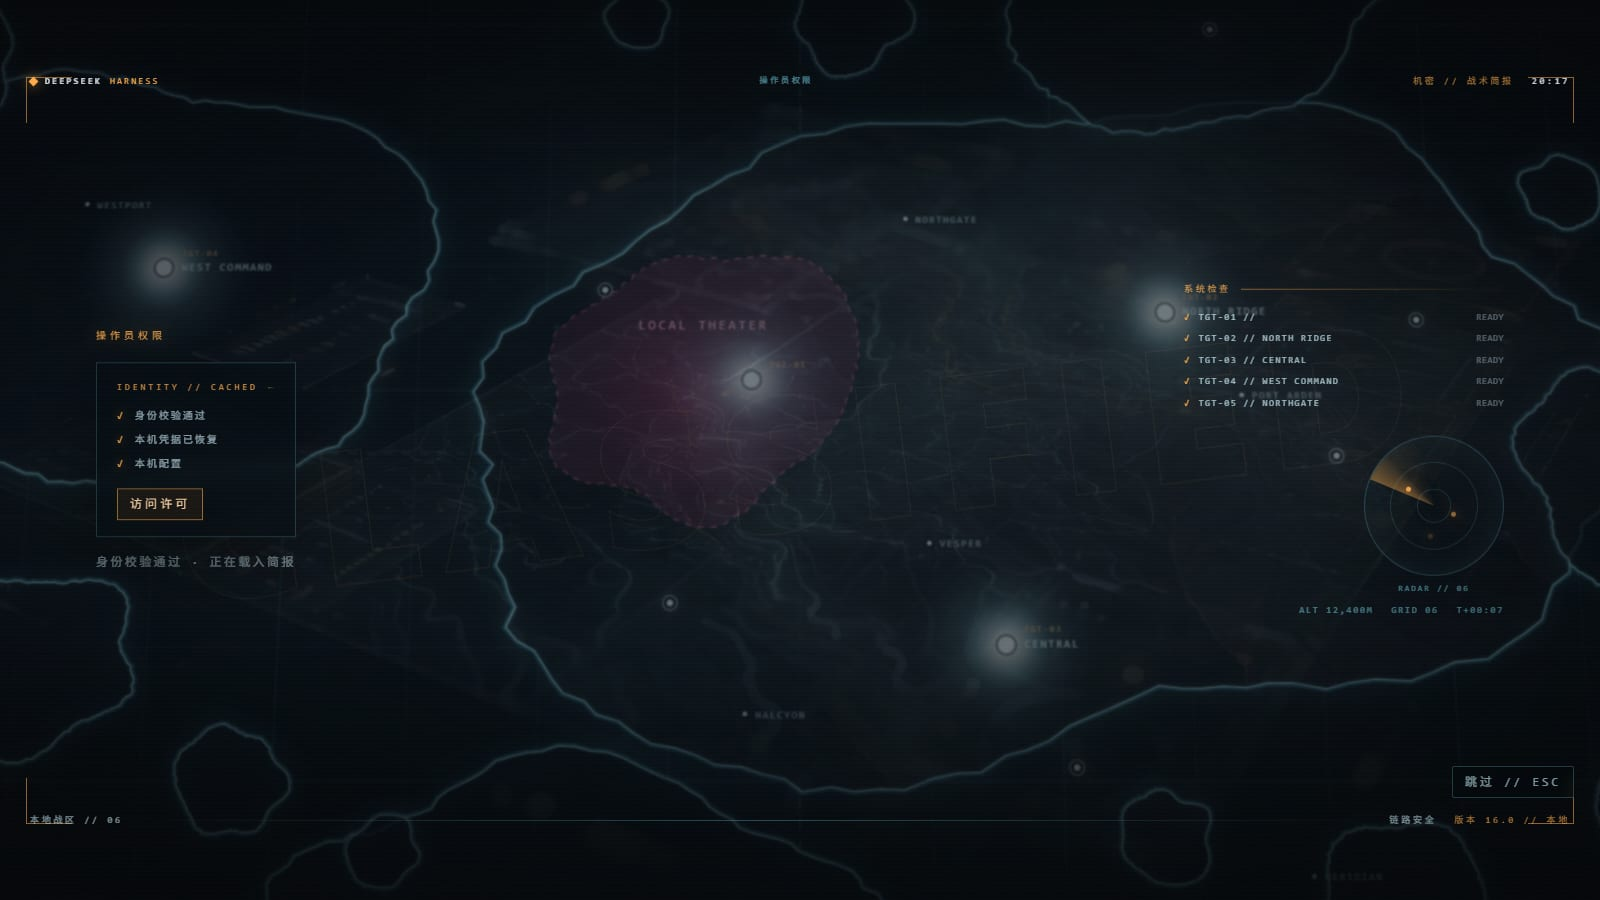
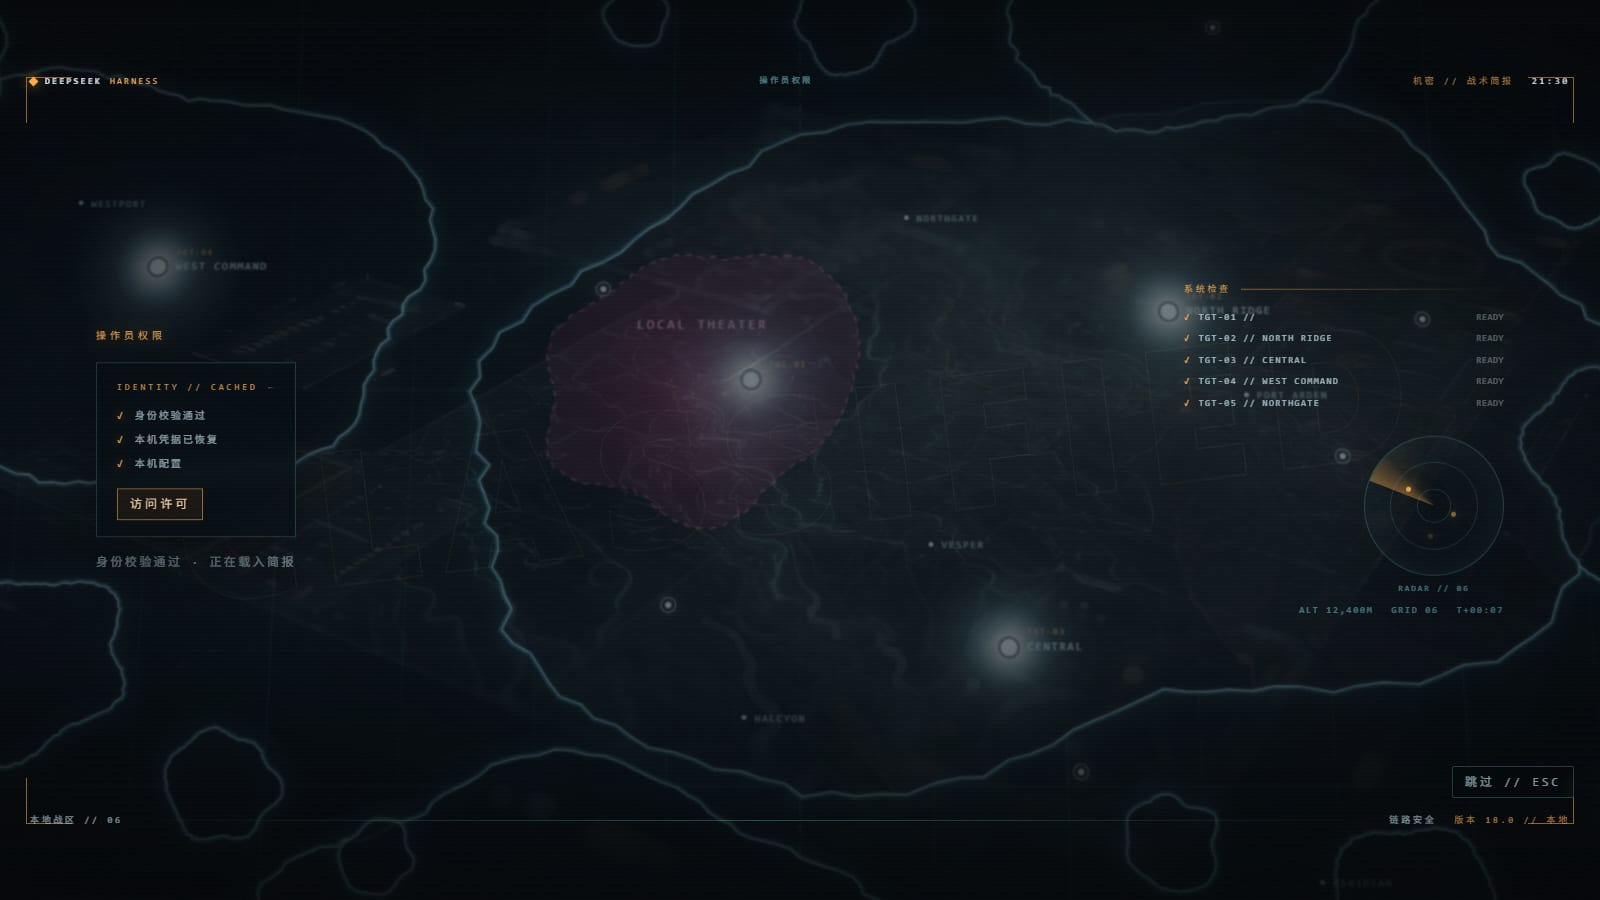
fix: anchor the theater halo in place and settle the map first (v0.18.0)
- removed the translateY rise from the seed group; the halo now expands purely in place around its map coordinate
- shortened the map camera settle to .9s and delayed the point to .95s so the plane is static before the burst begins
- verified with frame-by-frame captures: the bright core centroid stays at ~y=380.3 across the burst and fade frames instead of drifting upward
- README/locale/previews updated; tests 8/8, real-Edge reload check clean

diff --git a/client.js b/client.js
@@ -78,7 +78,7 @@ window.__ModuleLoader__.load({
       'aria.skip': '跳过开机动画',
       'skip.label': '跳过',
       'hud.op': '行动 // 第一缕光',
-      'hud.build': '版本 17.0 // 本地',
+      'hud.build': '版本 18.0 // 本地',
       'hud.theater': '本地战区 // 06',
       'hud.link': '链路安全',
       'brief.kicker': '战术简报 // 本地战区',
@@ -127,7 +127,7 @@ window.__ModuleLoader__.load({
       'aria.skip': 'Skip the boot sequence',
       'skip.label': 'SKIP',
       'hud.op': 'OPERATION // FIRST LIGHT',
-      'hud.build': 'BUILD 17.0 // LOCAL',
+      'hud.build': 'BUILD 18.0 // LOCAL',
       'hud.theater': 'LOCAL THEATER // 06',
       'hud.link': 'LINK SECURE',
       'brief.kicker': 'TACTICAL BRIEFING // LOCAL THEATER',
@@ -1256,7 +1256,7 @@ window.__ModuleLoader__.load({
 .acb-map{position:absolute;inset:0;z-index:1;pointer-events:none;
   transition:opacity .9s ease,filter .9s ease;}
 .acb-map-plane{position:absolute;inset:-9% -6%;transform-origin:50% 46%;
-  transition:transform 1.6s cubic-bezier(.2,.6,.2,1);
+  transition:transform .9s cubic-bezier(.2,.6,.2,1);
   transform:perspective(1700px) rotateX(7deg) scale(1.04);}
 .acb-map-svg{width:100%;height:100%;display:block;}
 .acb-root[data-phase="brief"] .acb-map{opacity:.34;filter:blur(1.2px) saturate(.95);}
@@ -1280,11 +1280,11 @@ window.__ModuleLoader__.load({
 .acb-highlight-glow{fill:url(#acbGlowMagenta);mix-blend-mode:screen;opacity:.68;}
 .acb-highlight-label{fill:rgba(255,170,205,.9);font-size:10px;letter-spacing:.24em;text-transform:uppercase;}
 .acb-rise-rect{transform-box:fill-box;transform-origin:50% 100%;transform:scaleY(1);}
-.acb-root[data-phase="theater"] .acb-rise-rect{animation:acbRegionRise 1.6s cubic-bezier(.2,.75,.2,1) 1.3s both;}
+.acb-root[data-phase="theater"] .acb-rise-rect{animation:acbRegionRise 1.6s cubic-bezier(.2,.75,.2,1) 1.55s both;}
 @keyframes acbRegionRise{from{transform:scaleY(0)}to{transform:scaleY(1)}}
 .acb-root[data-phase="theater"] .acb-highlight{animation:acbHighlightIn 1.1s ease .95s both;}
 @keyframes acbHighlightIn{from{opacity:0}to{opacity:1}}
-.acb-root[data-phase="theater"] .acb-highlight-glow{animation:acbHighlightBloom 4.2s ease 1.3s both;}
+.acb-root[data-phase="theater"] .acb-highlight-glow{animation:acbHighlightBloom 4.2s ease 1.55s both;}
 @keyframes acbHighlightBloom{0%{opacity:0}22%{opacity:1}62%{opacity:.8}100%{opacity:.5}}
 .acb-root[data-phase="theater"] .acb-highlight-label{animation:acbLabelIn .8s ease 2s both;}
 @keyframes acbLabelIn{from{opacity:0}to{opacity:1}}
@@ -1311,38 +1311,38 @@ window.__ModuleLoader__.load({
 .acb-root[data-phase="brief"] .acb-node-label,
 .acb-root[data-phase="brief"] .acb-node-tag{opacity:0;}
 .acb-root[data-phase="theater"] .acb-node .acb-node-ring,
-.acb-root[data-phase="theater"] .acb-node .acb-node-dot{animation:acbNodeCoreIn .55s ease calc(1.6s + var(--acb-i) * .08s) both;}
+.acb-root[data-phase="theater"] .acb-node .acb-node-dot{animation:acbNodeCoreIn .55s ease calc(1.85s + var(--acb-i) * .08s) both;}
 @keyframes acbNodeCoreIn{from{opacity:0;transform:scale(.3)}to{opacity:1;transform:scale(1)}}
 .acb-root[data-phase="theater"] .acb-node .acb-node-halo,
-.acb-root[data-phase="theater"] .acb-node .acb-node-halo-core{animation:acbNodeHaloIn 2.2s ease calc(1.45s + var(--acb-i) * .05s) both;}
+.acb-root[data-phase="theater"] .acb-node .acb-node-halo-core{animation:acbNodeHaloIn 2.2s ease calc(1.7s + var(--acb-i) * .05s) both;}
 @keyframes acbNodeHaloIn{0%{opacity:0;transform:scale(.4)}22%{opacity:.95;transform:scale(1.1)}55%{opacity:.7;transform:scale(1)}100%{opacity:0;transform:scale(1.15)}}
-.acb-root[data-phase="theater"] .acb-node .acb-node-rays{animation:acbNodeRaysOut 1.7s ease calc(1.48s + var(--acb-i) * .05s) both;}
+.acb-root[data-phase="theater"] .acb-node .acb-node-rays{animation:acbNodeRaysOut 1.7s ease calc(1.72s + var(--acb-i) * .05s) both;}
 @keyframes acbNodeRaysOut{0%{opacity:0;transform:scale(.05)}16%{opacity:1;transform:scale(1)}42%{opacity:.95;transform:scale(1.01)}100%{opacity:0;transform:scale(1.08)}}
 .acb-root[data-phase="theater"] .acb-node.is-hub .acb-node-halo{animation-name:acbNodeHaloHub;}
 @keyframes acbNodeHaloHub{0%{opacity:0;transform:scale(.4)}20%{opacity:1;transform:scale(1.12)}55%{opacity:.85;transform:scale(1)}100%{opacity:.5;transform:scale(1.05)}}
 .acb-root[data-phase="theater"] .acb-node.is-hub .acb-node-halo-core{animation-name:acbNodeHaloCoreHub;}
 @keyframes acbNodeHaloCoreHub{0%{opacity:0;transform:scale(.4)}20%{opacity:1;transform:scale(1.15)}45%{opacity:.9;transform:scale(1)}100%{opacity:.6;transform:scale(1.08)}}
 .acb-root[data-phase="theater"] .acb-node-label,
-.acb-root[data-phase="theater"] .acb-node-tag{animation:acbLabelIn .8s ease calc(2.35s + var(--acb-i) * .05s) both;}
+.acb-root[data-phase="theater"] .acb-node-tag{animation:acbLabelIn .8s ease calc(2.6s + var(--acb-i) * .05s) both;}
 .acb-seed-anchor{pointer-events:none;}
 .acb-seed{opacity:0;transform-box:fill-box;transform-origin:center;}
-.acb-root[data-phase="theater"] .acb-seed{animation:acbSeedRise 3.6s cubic-bezier(.2,.7,.25,1) .65s both;}
+.acb-root[data-phase="theater"] .acb-seed{animation:acbSeedRise 3.4s cubic-bezier(.2,.7,.25,1) .95s both;}
 @keyframes acbSeedRise{
-  0%{opacity:0;transform:translateY(32px) scale(.3)}
-  8%{opacity:1;transform:translateY(22px) scale(.85)}
-  18%{opacity:1;transform:translateY(8px) scale(1.04)}
-  28%{opacity:1;transform:translateY(0) scale(1.08)}
-  45%{opacity:1;transform:translateY(-3px) scale(1.05)}
-  62%{opacity:1;transform:translateY(-5px) scale(1.08)}
-  80%{opacity:1;transform:translateY(-9px) scale(1.16)}
-  100%{opacity:0;transform:translateY(-26px) scale(1.7)}
+  0%{opacity:0;transform:scale(.25)}
+  8%{opacity:1;transform:scale(.8)}
+  18%{opacity:1;transform:scale(1.02)}
+  28%{opacity:1;transform:scale(1.1)}
+  45%{opacity:1;transform:scale(1.16)}
+  62%{opacity:1;transform:scale(1.22)}
+  80%{opacity:1;transform:scale(1.32)}
+  100%{opacity:0;transform:scale(1.65)}
 }
 .acb-seed-halo{mix-blend-mode:screen;}
-.acb-root[data-phase="theater"] .acb-seed-halo-far{animation:acbSeedHaloFar 1.8s ease 1.45s both;}
+.acb-root[data-phase="theater"] .acb-seed-halo-far{animation:acbSeedHaloFar 1.8s ease 1.9s both;}
 @keyframes acbSeedHaloFar{from{opacity:.7}to{opacity:0}}
-.acb-root[data-phase="theater"] .acb-seed-halo-mid{animation:acbSeedHaloMid 1.8s ease 1.4s both;}
+.acb-root[data-phase="theater"] .acb-seed-halo-mid{animation:acbSeedHaloMid 1.8s ease 1.85s both;}
 @keyframes acbSeedHaloMid{from{opacity:.92}to{opacity:0}}
-.acb-root[data-phase="theater"] .acb-seed-halo-near{animation:acbSeedHaloNear 1.7s ease 1.35s both;}
+.acb-root[data-phase="theater"] .acb-seed-halo-near{animation:acbSeedHaloNear 1.7s ease 1.8s both;}
 @keyframes acbSeedHaloNear{from{opacity:1}to{opacity:0}}
 .acb-seed-halo-far{opacity:.7;}
 .acb-seed-halo-mid{opacity:.92;}
@@ -1354,7 +1354,7 @@ window.__ModuleLoader__.load({
 .acb-seed-rays{opacity:0;transform-box:fill-box;transform-origin:center;}
 .acb-seed-rays line{stroke:rgba(208,248,255,.3);stroke-width:.65;}
 .acb-seed-rays line.hot{stroke:rgba(255,255,255,.7);stroke-width:1;}
-.acb-root[data-phase="theater"] .acb-seed-rays{animation:acbSeedRays 1.6s ease .7s both;}
+.acb-root[data-phase="theater"] .acb-seed-rays{animation:acbSeedRays 1.6s ease 1s both;}
 @keyframes acbSeedRays{0%{opacity:0;transform:scale(.08)}12%{opacity:1;transform:scale(1)}40%{opacity:1;transform:scale(1.02)}100%{opacity:0;transform:scale(1.16)}}
 .acb-rails{position:absolute;top:15vh;z-index:4;width:200px;font-size:7.5px;line-height:1.75;
   letter-spacing:.1em;color:rgba(176,230,250,.62);pointer-events:none;text-shadow:0 0 8px rgba(0,0,0,.9);line-height:1.9;}

diff --git a/boot-splash.js b/boot-splash.js
@@ -81,7 +81,7 @@ export const EARLY_HTML = String.raw`
   <div class="acbE-bottom">
     <span>DESKTOP <b>06</b></span>
     <span>LOCAL // SECURE BOOT</span>
-    <span>BUILD <b>17.0</b></span>
+    <span>BUILD <b>18.0</b></span>
   </div>
 </div>
 `;

diff --git a/README.md b/README.md
@@ -6,7 +6,7 @@ DeepSeek Harness Web UI 的电影感开机序列：四段式**战术任务简报
 
 序列只属于**一次应用启动**：冷启动播放一次；休眠唤醒、托盘恢复、页面刷新都不会重播。
 
-当前版本：**0.17.0**
+当前版本：**0.18.0**
 
 > 0.15.0：战区段重做成完整的任务简报界面——程序化海岸线 + 经纬网格 + `SAT DATA LINK` / `PLATE` 数据栏 + 多节点长射线 + 品红 `LOCAL THEATER` 高亮 + 底部任务字幕。
 
@@ -15,6 +15,8 @@ DeepSeek Harness Web UI 的电影感开机序列：四段式**战术任务简报
 > 0.16.0：战区揭示动画按"初始无色 → 强光点浮起 → 密集射线爆发 → 下方区域自下而上涂色 → 光晕消散只留关键点"编排，并放大了光晕中心的浓度。
 
 > 0.17.0：光点改成实心过曝白核并延长亮核停留；射线再加密（种子 240 根、主节点 200 根、普通节点 96 根）并缩短停留，爆发放完后实心光点再逐渐淡出。
+
+> 0.18.0：修复光圈位移——去掉光点整组的上下平移，光晕改为**原地扩张**；地图视角在光点出现前先完成稳定，光点、射线与区域涂色都锁定在同一坐标。
 
 | 简报上行 | 战区态势 |
 | --- | --- |
@@ -25,7 +27,7 @@ DeepSeek Harness Web UI 的电影感开机序列：四段式**战术任务简报
 ## 这一版是什么
 
 1. **简报 / BRIEF（0–2.6s）**：暗场里一张全息指挥桌缓慢呼吸，左侧轨道环，右侧 `DEEPSEEK / HARNESS` 字标划开；`OPERATION // FIRST LIGHT`、加密上行状态、简报准备进度，右侧 `BRIEFING DATA`（TGT / GRID / UPLINK / STATUS）。
-2. **战区 / THEATER（2.6–8.2s）**：全幅全息战区图，按揭示动画出现。初始只有无色的海岸线与网格；随后一个实心白热光点浮起、爆出更密的射线，品红高亮区从下方升腾填色；射线短暂停留后先散掉，实心光点再逐渐淡出，只留下主节点与细小关键点。程序化海岸线 + 青色发光描边，经纬网格与坐标刻度；左右两列数据栏——`SAT DATA LINK / UPLOAD STATUS / NODE STATUS` 与 `PLATE 06 // LOCAL / THEATER GRID`；12 个数据节点从密集亮核向外分三层（细 / 中 / 长）散开，另有四向十字长射线，4 个主节点更亮；品红 `LOCAL THEATER` 高亮区、城市标签与底部双语任务字幕。
+2. **战区 / THEATER（2.6–8.2s）**：全幅全息战区图，按揭示动画出现。初始只有无色的海岸线与网格；随后一个实心白热光点在原地扩张、爆出更密的射线，品红高亮区从下方升腾填色；射线短暂停留后先散掉，实心光点再逐渐淡出，只留下主节点与细小关键点。程序化海岸线 + 青色发光描边，经纬网格与坐标刻度；左右两列数据栏——`SAT DATA LINK / UPLOAD STATUS / NODE STATUS` 与 `PLATE 06 // LOCAL / THEATER GRID`；12 个数据节点从密集亮核向外分三层（细 / 中 / 长）散开，另有四向十字长射线，4 个主节点更亮；品红 `LOCAL THEATER` 高亮区、城市标签与底部双语任务字幕。
 3. **权限 / CONSOLE（8.2–11.4s）**：战区图退暗，左侧 `OPERATOR ACCESS` 卡片逐条校验身份、凭据、本机配置并盖 `ACCESS GRANTED`；右侧系统检查列表、雷达扫描与遥测；背景是低透明度的 `CLASSIFIED` 分类水印。
 4. **标题 / TITLE（11.4–15s）**：地图线稿淡出，`DEEPSEEK` 大标题、`MISSION START` 任务开始章、三枚状态 chip、`按 Enter 继续` 与自动继续进度。
 
